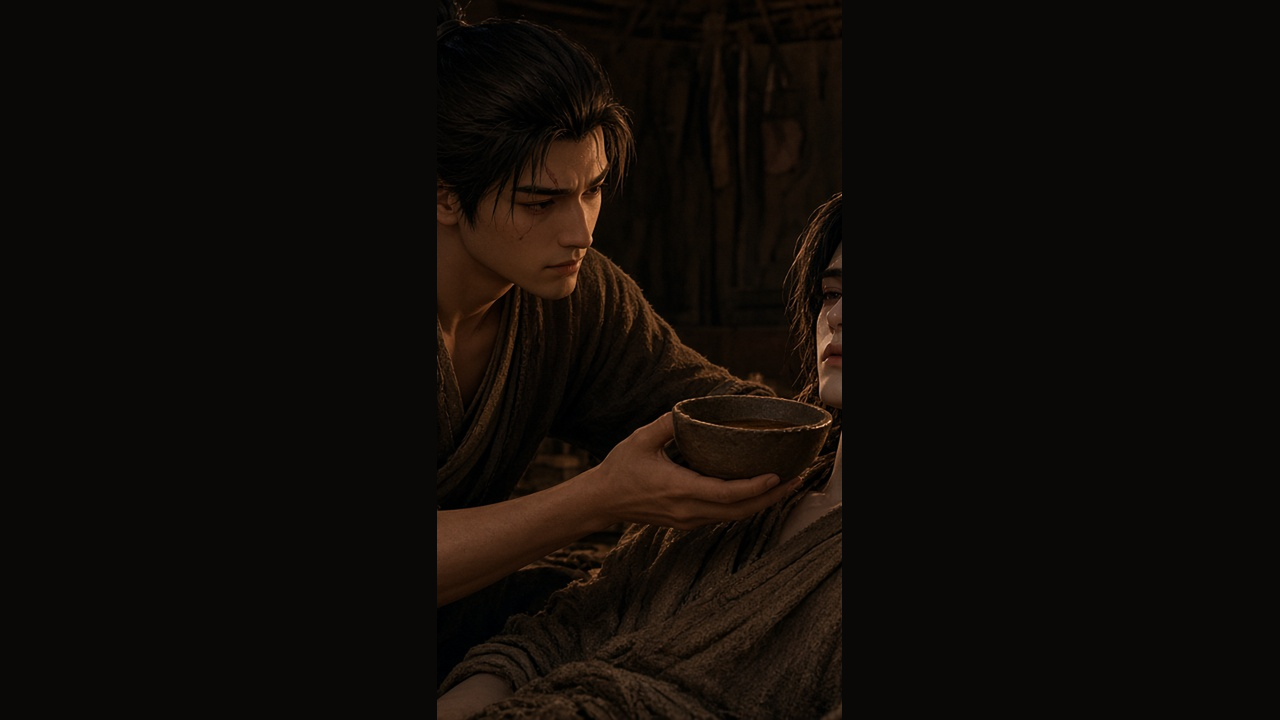
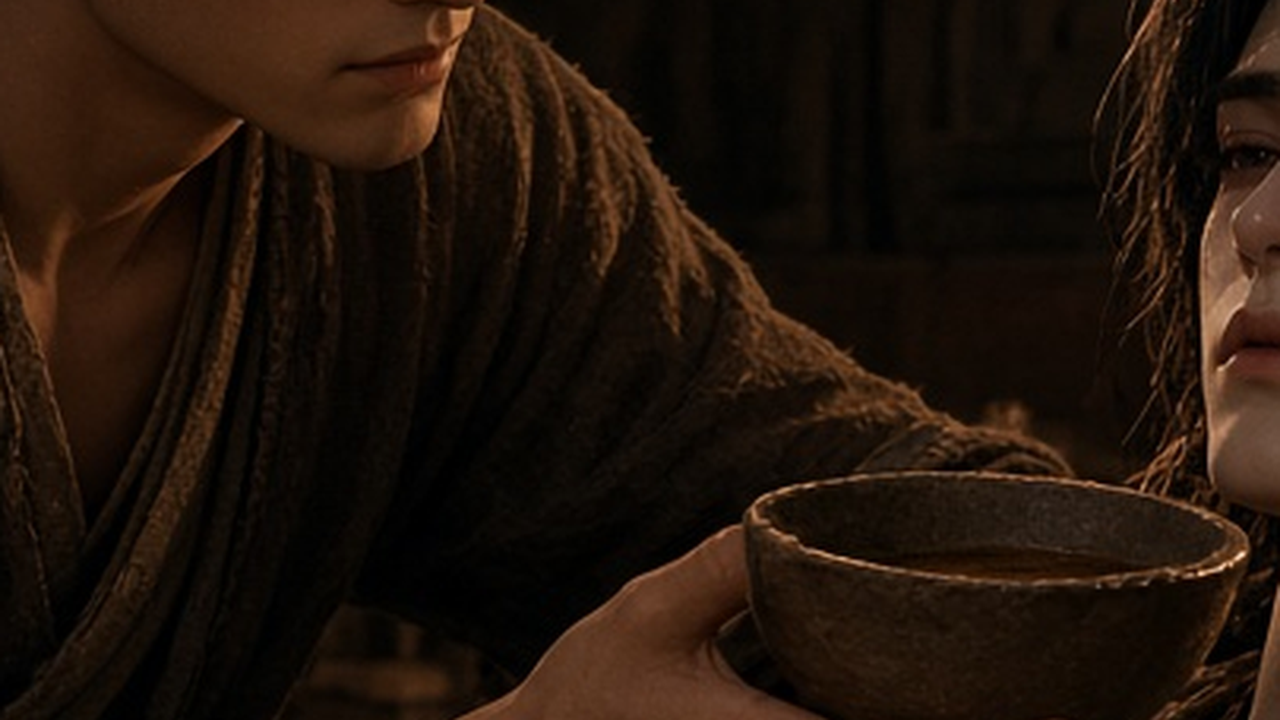
fix(stage): cover-crop portrait plates to fill 16:9 landscape

diff --git a/index.html b/index.html
@@ -295,7 +295,7 @@ html, body {
 #theater { background: #000; }
 .scene-stage { position: absolute; inset: 0; overflow: hidden; background: #0a0806; }
 .scene-bg {
-  position: absolute; inset: 0; background-size: contain; background-color: #0a0806;
+  position: absolute; inset: 0; background-size: cover; background-color: #0a0806;
   background-position: center center; background-repeat: no-repeat;
   transition: opacity var(--fade) ease, transform 1.1s ease, filter .7s ease; opacity: 1;
 }
@@ -1665,11 +1665,11 @@ function openLore(key){
 }
 $("tooltipMask").addEventListener("click", ()=>$("tooltipMask").classList.remove("show"));
 
-const COVER_BG = new Set(["bg_field","bg_rain","bg_wall","bg_temple_dusk","bg_yamen_alley","bg_mud_path","bg_hut_day","bg_shrine_rain"]);
 function bgFitMode(key){
-  if(!key) return "contain";
-  if(COVER_BG.has(key)) return "cover";
-  return "contain"; // all cg_* and letterboxed / portrait-origin plates
+  if(!key) return "cover";
+  // Ferry cinema / UR still: show full frame
+  if(String(key).startsWith("cg_ferry")) return "contain";
+  return "cover"; // landscape stage fill
 }
 
 function setScene(node){
